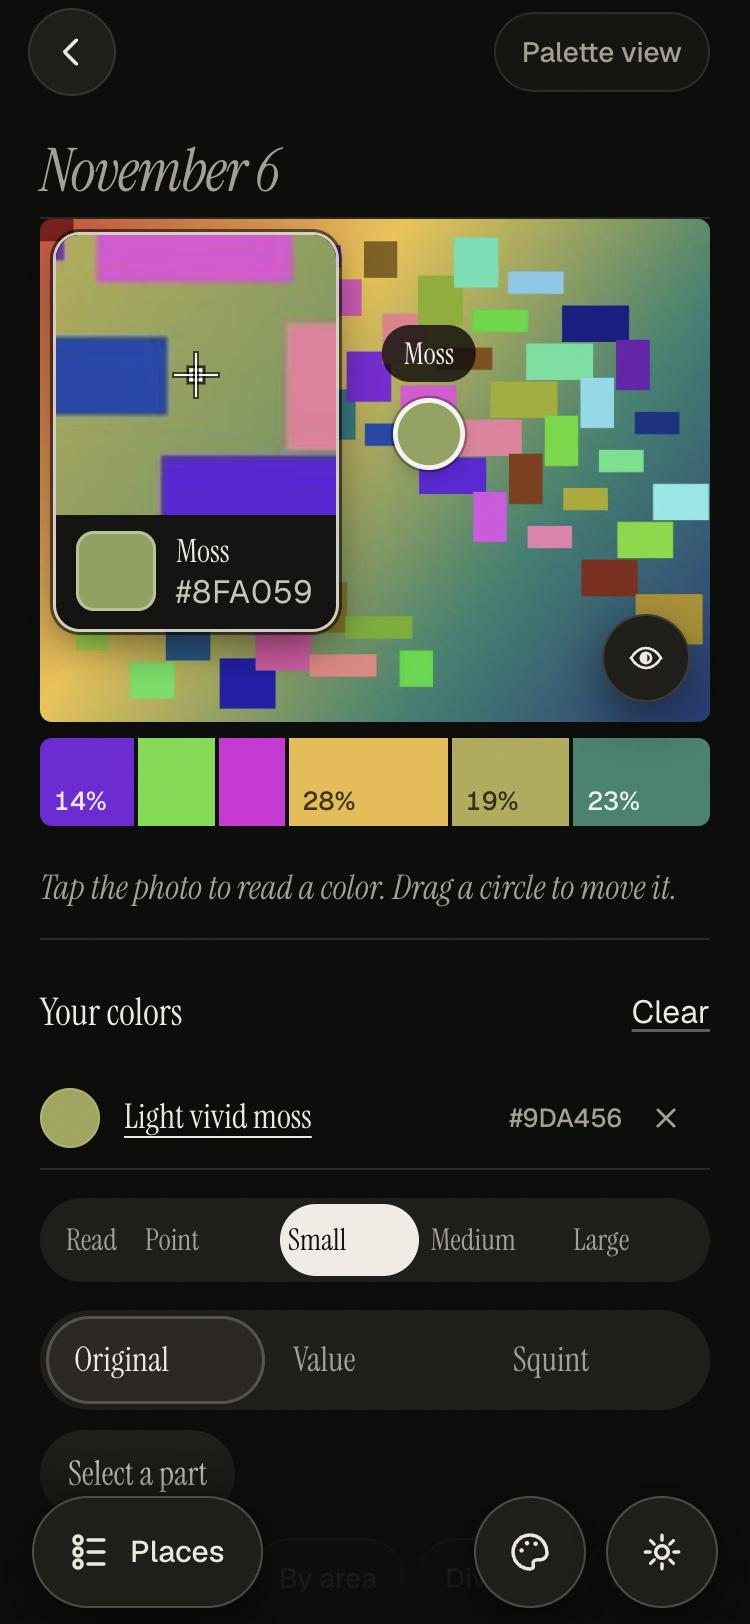
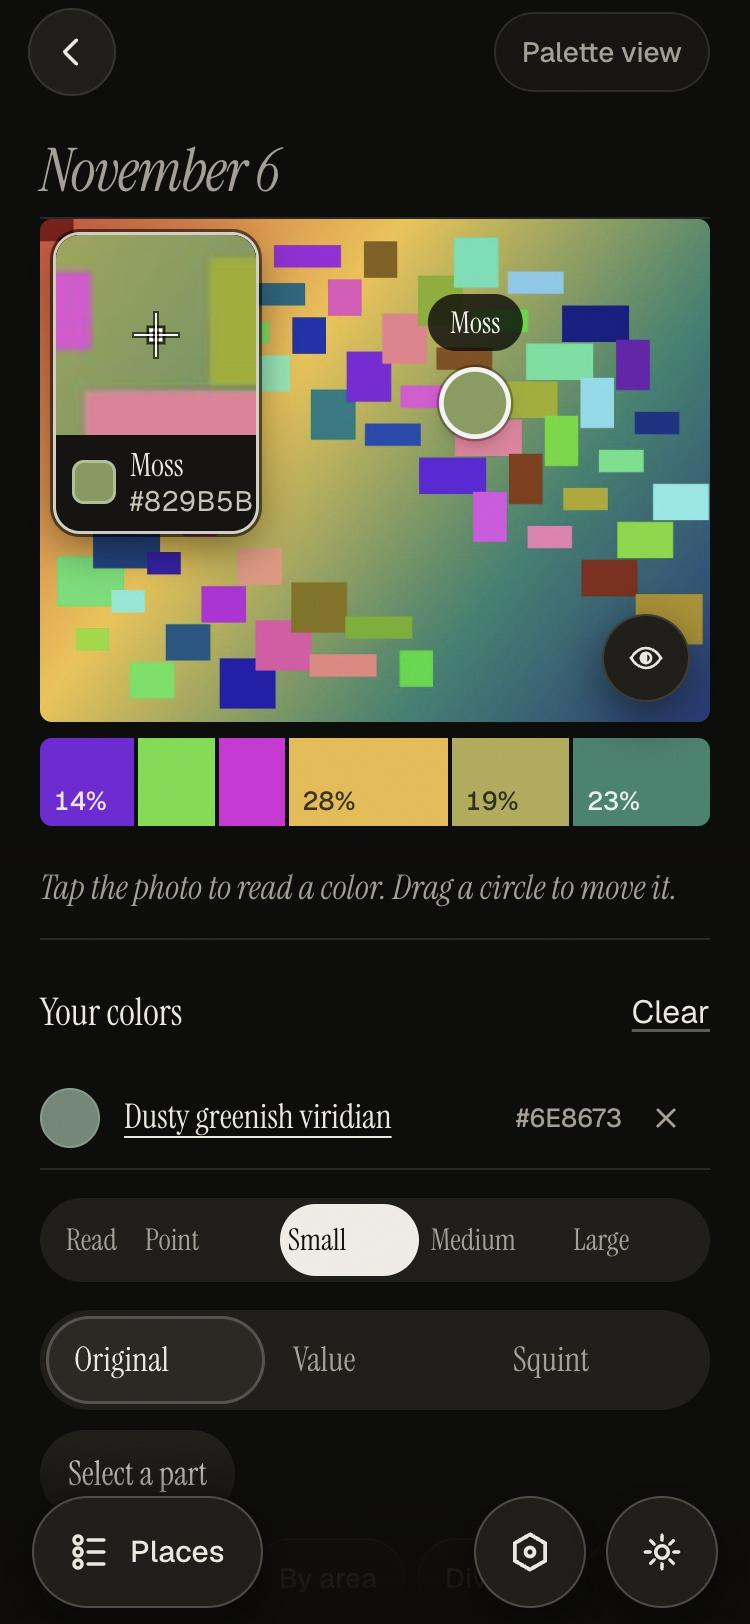
Eyedropper magnifier: compact card (112px at 440, 100 at 375), slim swatch + one-line name + hex row

diff --git a/css/eyedrop.css b/css/eyedrop.css
@@ -9,11 +9,11 @@
   border:2px solid #fff;box-shadow:0 0 0 2px rgba(0,0,0,.78),inset 0 0 0 2px rgba(0,0,0,.78),0 2px 8px rgba(0,0,0,.35);box-sizing:border-box;pointer-events:none}
 .eyd-ret-dot{position:absolute;left:50%;top:50%;width:6px;height:6px;margin:-3px 0 0 -3px;border-radius:50%;background:#fff;box-shadow:0 0 0 1.5px rgba(0,0,0,.8)}
 
-/* the magnifier (David, 2026-11-06: "my thumb covers what I'm picking"): an opaque card, ~160px on a 440 screen and
-   140 on a 375 one; a 3.5x close-up with the sampled square outlined and a crosshair, and under it the live color as a
+/* the magnifier (David, 2026-11-06: "my thumb covers what I'm picking"): an opaque card, ~112px on a 440 screen and
+   100 on a 375 one; a 3.5x close-up with the sampled square outlined and a crosshair, and under it the live color as a
    large swatch with its name and hex, set on the card's own dark ground so they read on any color. */
 .eyd-prev[hidden]{display:none}
-.eyd-prev{--pv:clamp(140px,36.4vw,168px);position:absolute;left:10px;top:10px;width:var(--pv);padding:0;border-radius:12px;overflow:hidden;background:#161412;
+.eyd-prev{--pv:clamp(100px,25.5vw,112px);position:absolute;left:10px;top:10px;width:var(--pv);padding:0;border-radius:12px;overflow:hidden;background:#161412;
   box-shadow:0 0 0 1.5px rgba(236,232,223,.85),0 0 0 3px rgba(0,0,0,.55),0 8px 22px rgba(0,0,0,.5)}
 .eyd-prev-sq{position:relative;width:var(--pv);height:var(--pv);background:#0b0a09}
 .eyd-prev-sq canvas{display:block;width:100%;height:100%}
@@ -22,11 +22,11 @@
 .eyd-prev-x::before,.eyd-prev-x::after{content:"";position:absolute;background:rgba(255,255,255,.95);box-shadow:0 0 0 1px rgba(0,0,0,.6)}
 .eyd-prev-x::before{left:-11px;top:-.5px;width:22px;height:1px}
 .eyd-prev-x::after{top:-11px;left:-.5px;height:22px;width:1px}
-.eyd-prev-info{display:flex;align-items:center;gap:10px;padding:8px 10px 9px;min-height:56px;box-sizing:border-box}
-.eyd-prev-sw{flex:none;width:40px;height:40px;border-radius:9px;background:var(--c,#888);box-shadow:inset 0 0 0 1.5px rgba(236,232,223,.45)}
-.eyd-prev-txt{display:flex;flex-direction:column;gap:2px;min-width:0}
-.eyd-prev-name{min-width:0;font:400 16px/1.15 var(--serif);color:#ECE8DF;display:-webkit-box;-webkit-line-clamp:2;-webkit-box-orient:vertical;overflow:hidden;overflow-wrap:anywhere}
-.eyd-prev-hex{font:400 16px/1.1 var(--mono,ui-monospace,Menlo,monospace);font-style:normal;color:#C9C4B8;letter-spacing:.02em}
+.eyd-prev-info{display:flex;align-items:center;gap:6px;padding:6px 7px 7px;box-sizing:border-box}
+.eyd-prev-sw{flex:none;width:22px;height:22px;border-radius:6px;background:var(--c,#888);box-shadow:inset 0 0 0 1.5px rgba(236,232,223,.45)}
+.eyd-prev-txt{display:flex;flex-direction:column;gap:1px;min-width:0;flex:1}
+.eyd-prev-name{min-width:0;font:400 16px/1.15 var(--serif);color:#ECE8DF;overflow:hidden;white-space:nowrap;text-overflow:ellipsis}
+.eyd-prev-hex{font:400 14px/1.1 var(--mono,ui-monospace,Menlo,monospace);font-style:normal;color:#C9C4B8;letter-spacing:0}
 
 /* the sample-size row, below the picture */
 .eyd-sizebar{margin:10px auto 0;max-width:420px;width:100%;padding:0 12px;box-sizing:border-box}

diff --git a/js/eyedrop.js b/js/eyedrop.js
@@ -2,7 +2,7 @@
 // Shared eyedropper, Adobe Capture style (David, 2026-10-25). The old loupe that ballooned above the finger is gone.
 // Now: a persistent reticle (a ring with a double outline and a center dot) sits on the picture. Drag anywhere to move
 // it with RELATIVE motion (the finger never covers the sampled point); tap to jump it there; a mouse drags it directly
-// and the arrow keys nudge it 1px (Shift = 10px). A magnifier, ~160px (140 on a 375 screen), is pinned to the top-left corner of the
+// and the arrow keys nudge it 1px (Shift = 10px). A magnifier, ~112px (100 on a 375 screen), is pinned to the top-left corner of the
 // picture (it flips to the top-right when the reticle or a thumb gets near it): a close-up (about 3.5x, smooth) with a
 // crosshair at the center, the sampled area outlined, and the live swatch, name and hex attached beneath it (David,
 // 2026-11-06: the thumb covered what he was picking). A press-and-drag never jumps the reticle; only a quick tap
@@ -106,7 +106,7 @@ const eydPreviewHTML = (hidden) => `<div class="eyd-prev"${hidden ? " hidden" : 
 // where the preview card goes: the free top corner of the visible picture (vis = {l,t,r,b} in viewport px), flipping to the
 // other corner when the point (x, y) or a thumb about it (radius d, never less than a finger's reach) comes near it
 function eydPrevPlace(prevEl, vis, x, y, d) {
-  const pv = prevEl.offsetWidth || 160, ph = prevEl.offsetHeight || pv + 56, pad = 8, m = Math.max(d, 54);
+  const pv = prevEl.offsetWidth || 112, ph = prevEl.offsetHeight || pv + 50, pad = 8, m = Math.max(d, 54);
   // the corners in order of preference: top-left, top-right, then the bottom two when the picture is tall enough
   const L = vis.l + pad, R = vis.r - pad - pv, T = vis.t + pad, B = vis.b - pad - ph;
   const boxes = [{ l: L, t: T }, { l: R, t: T }];
@@ -124,7 +124,7 @@ const eydRingPx = (nSrc, screenPerSrc) => clamp(Math.round(nSrc * screenPerSrc),
 // is ~3.5x of what's visible whatever the zoom. Smooth (not pixel art); past the picture's edge it stays dark.
 function eydPreviewDraw(root, s, fx, fy, nSrc, screenPerSrc, hex) {
   const sq = root.querySelector(".eyd-prev-sq"), cv = root.querySelector("canvas"), cx = cv.getContext("2d");
-  const pv = sq.offsetWidth || 160;
+  const pv = sq.offsetWidth || 112;
   const side = clamp(pv / (EYD_ZOOM * Math.max(screenPerSrc, 1e-3)), 14, Math.min(s.w, s.h));
   const x0 = fx * s.w - side / 2, y0 = fy * s.h - side / 2;
   cx.imageSmoothingEnabled = true; cx.imageSmoothingQuality = "high";

diff --git a/tools/smoke/scenarios.js b/tools/smoke/scenarios.js
@@ -8649,7 +8649,7 @@ scenario("paintings", "Pick a color opens the palette editor: one reticle moves,
   const pv0 = t.ev(`(() => { const p = document.querySelector(".glz-scrim .eyd-prev"), cv = p.querySelector("canvas"), d = cv.getContext("2d").getImageData(cv.width >> 1, cv.height >> 1, 1, 1).data, r = p.getBoundingClientRect(), s = document.querySelector(".glz-stage").getBoundingClientRect();
     return JSON.stringify({ lit: d[0] + d[1] + d[2] > 24, side: Math.round(r.width), nearTop: r.top - s.top < 24, nearEdge: r.left - s.left < 24 || s.right - r.right < 24, name: p.querySelector(".eyd-prev-name").textContent.length > 0 }); })()`);
   const pvj = JSON.parse(pv0);
-  t.expect(pvj.lit && pvj.nearTop && pvj.nearEdge && pvj.name && pvj.side >= 138, `the close-up must open drawn, in a corner, at least 138px: ${pv0}`);
+  t.expect(pvj.lit && pvj.nearTop && pvj.nearEdge && pvj.name && pvj.side >= 98, `the close-up must open drawn, in a corner, at least 98px: ${pv0}`);
   t.expect(t.$$(".glz-pk-strip .glz-seg-c").length === 1 && t.$(".glz-seg-live"), "with no colors kept, the live color fills the whole strip alone");
   const st0 = t.$(".glz-pk-strip").getBoundingClientRect(), sg0 = t.$(".glz-seg-live").getBoundingClientRect();
   t.expect(Math.abs(sg0.width - st0.width) < 2 && st0.height >= 70, `the first color should fill the strip: strip ${st0.width}x${st0.height}, cell ${sg0.width}`);
